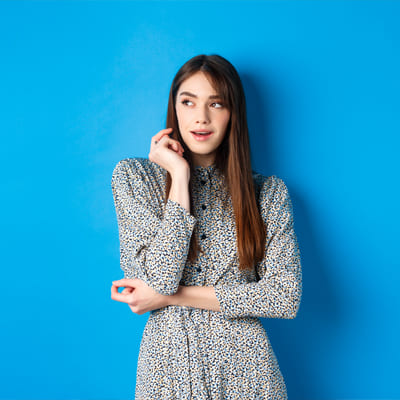
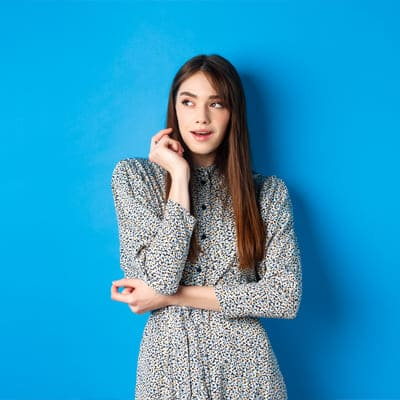
Más clientes y compresión de imágenes

diff --git a/index.html b/index.html
@@ -236,6 +236,39 @@
               <i class="bx bxs-quote-alt-right quote-icon-right"></i>
             </p>
           </div>
+
+          <div class="valoracion-item">
+            <img src="assets/img/valoraciones/cliente3.jpg" class="valoracion-img" alt="cliente Pacific diseño grafico">
+            <h3>Elise Walsh</h3>
+            <h4>CMO | Nutria</h4>
+            <p>
+              <i class="bx bxs-quote-alt-left quote-icon-left"></i>
+              Pacific fue en quienes confié para el nuevo diseño del packaging de la nueva colección y el rebranding de nuestro logotipo. En la empresa quedamos todos contentos y satisfechos. 
+              <i class="bx bxs-quote-alt-right quote-icon-right"></i>
+            </p>
+          </div>
+
+          <div class="valoracion-item">
+            <img src="assets/img/valoraciones/cliente4.jpg" class="valoracion-img" alt="cliente Pacific diseño grafico">
+            <h3>Rebecca Hilton</h3>
+            <h4>CCO | Uberdank</h4>
+            <p>
+              <i class="bx bxs-quote-alt-left quote-icon-left"></i>
+              La gente super fascinada con el diseño llamativo de nuestra galería, al igual que nosotros en Uberdank. En nuestra imaginación quedaría fantástico pero el resultado real no podía ser mejor ¡Gracias Pacific!
+              <i class="bx bxs-quote-alt-right quote-icon-right"></i>
+            </p>
+          </div>
+
+          <div class="valoracion-item">
+            <img src="assets/img/valoraciones/cliente5.jpg" class="valoracion-img" alt="cliente Pacific diseño grafico">
+            <h3>George Bulls</h3>
+            <h4>CEO | 2Market</h4>
+            <p>
+              <i class="bx bxs-quote-alt-left quote-icon-left"></i>
+              Nos encontramos reformando una de nuestras sucursales más conocidas y concurridas, la gente está ansiosa de que volvamos a abrir las puertas y queríamos darle, a partir de ilustraciones, una imagen de lo que se viene de nuevo en la tienda. Muy agradecidos y un trabajo impecable. Los recomiendo y volveré a contratar en el futuro. 
+              <i class="bx bxs-quote-alt-right quote-icon-right"></i>
+            </p>
+          </div>
         </div>
       </div>
     </section>
